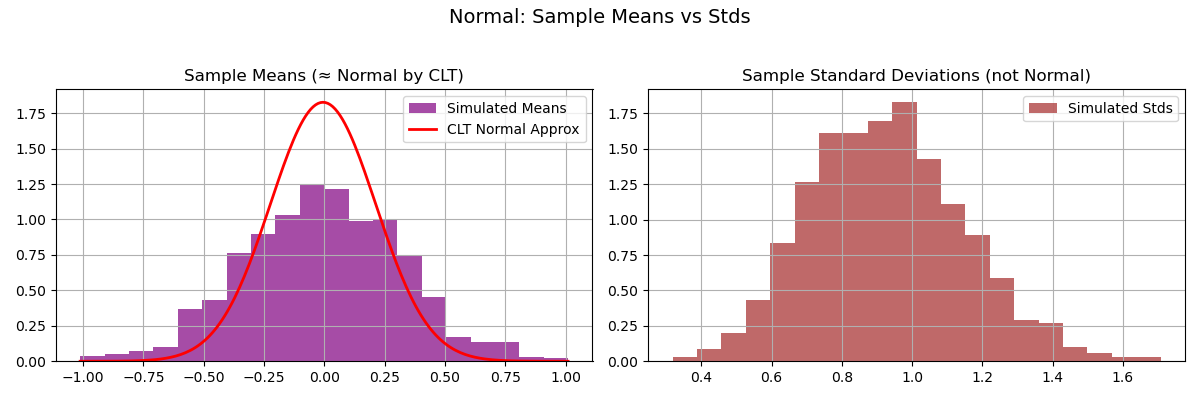
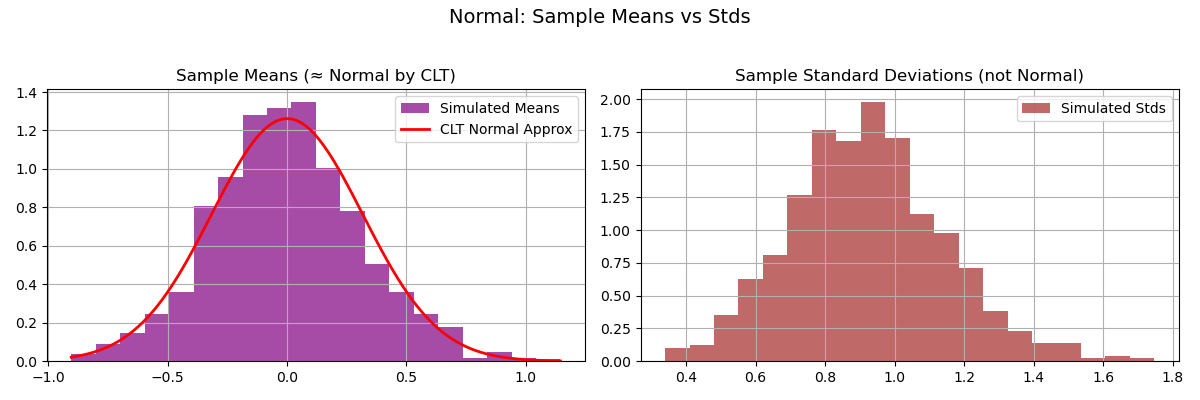
ASSMT6

diff --git a/assm6_q2_student.py b/assm6_q2_student.py
@@ -2,7 +2,7 @@ import numpy as np
 import matplotlib.pyplot as plt
 from scipy.stats import norm
 
-def confidence_interval(N_samples=100, sample_size=30, true_mean=67, true_std=10, confidence=0.95):
+def confidence_interval(N_samples=100, sample_size=30, true_mean=401, true_std=7.756, confidence=0.95):
     """
     Demonstrates 95% confidence intervals for the mean.
     Parameters:
@@ -15,8 +15,8 @@ def confidence_interval(N_samples=100, sample_size=30, true_mean=67, true_std=10
     
     # WRITE_YOUR_CODE HERE TO COMPUTE THE Z VALUE
     # Z value for the two-tailed confidence interval
-    alpha = 
-    z = 
+    alpha = 1-confidence
+    z = norm.ppf(1-alpha/2)
     # this code block ends here
 
     # Store the lower and upper bounds of each CI
@@ -31,11 +31,11 @@ def confidence_interval(N_samples=100, sample_size=30, true_mean=67, true_std=10
         sample = np.random.normal(loc=true_mean, scale=true_std, size=sample_size)
 
         # WRITE_YOUR_CODE HERE TO COMPUTE SAMPLE MEAN, SAMPLE STANDARD ERROR, AND CI BOUNDS
-        sample_mean = 
-        sample_se = 
+        sample_mean = sample.mean()
+        sample_se = sample.std()
         
-        lower = 
-        upper = 
+        lower = sample_mean-z*(sample_se/np.sqrt(sample_size))
+        upper = sample_mean+z*(sample_se/np.sqrt(sample_size))
         # this code block ends here
 
         # append to CI lists        
@@ -43,7 +43,7 @@ def confidence_interval(N_samples=100, sample_size=30, true_mean=67, true_std=10
         ci_uppers.append(upper)
         
         # WRITE_YOUR_CODE HERE TO CHECK IF THE TRUE MEAN IS WITHIN THE CI, INCREMENT misses IF NOT
-        if 
+        if true_mean < lower or true_mean > upper:
             misses += 1
         # this code block ends here
     
@@ -52,7 +52,7 @@ def confidence_interval(N_samples=100, sample_size=30, true_mean=67, true_std=10
     for i, (low, up) in enumerate(zip(ci_lowers, ci_uppers)):
 
         # WRITE_YOUR_CODE HERE TO cOLOR THE INTERVALS THAT MISS THE TRUE MEAN IN RED, OTHERS IN BLUE
-        color = 
+        color = "red" if (low > true_mean or true_mean > up) else"blue"
         # this code block ends here
 
         plt.plot([low, up], [i, i], color=color, lw=2)
@@ -67,8 +67,8 @@ def confidence_interval(N_samples=100, sample_size=30, true_mean=67, true_std=10
     plt.show()
     
     # WRITE_YOUR_CODE HERE TO PRINT THE NUMBER OF MISSES AND THE PERCENTAGE
-    print(f"Out of {} intervals, {} did NOT contain the true mean.")
-    print(f"This is roughly {}%, close to the expected 5% for a 95% CI.")
+    print(f"Out of {N_samples} intervals, {misses} did NOT contain the true mean.")
+    print(f"This is roughly {misses*100/N_samples}%, close to the expected 5% for a 95% CI.")
     # this code block ends here
 
 # ================================

diff --git a/assm6_q1_student.py b/assm6_q1_student.py
@@ -118,8 +118,8 @@ def task5_mean_std(N=1000, m=10):
          stds  = np.std(data, axis=1)
          # WRITE_YOUR_CODE HERE TO COMPUTE THEORETICAL MEAN, STD OF SAMPLE MEANS
          # theoretical CLT parameters
-         theo_mu  = means.mean()
-         theo_std = stds.std()
+         theo_mu  = dist.mean()
+         theo_std = np.sqrt(dist.var()/m)
          # this code block ends here
          fig, axes = plt.subplots(1,2, figsize=(12,4))
          fig.suptitle(f"{name}: Sample Means vs Stds", fontsize=14)
